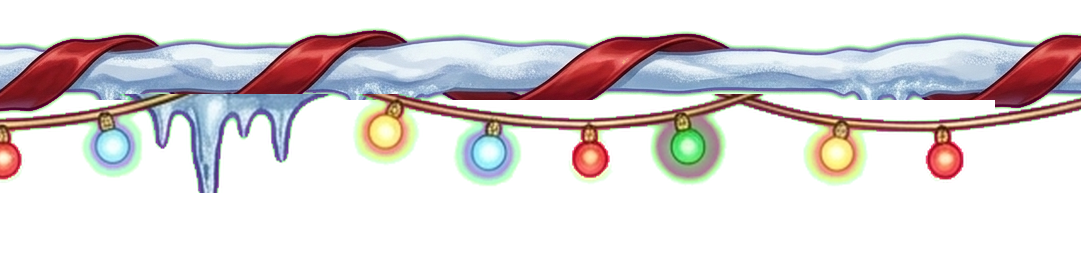
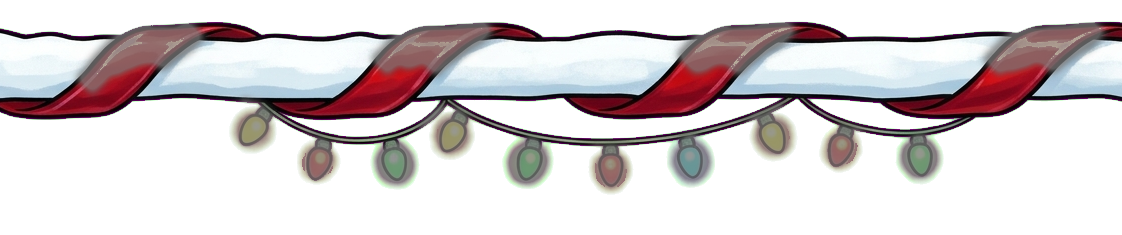
feat: Noël, cadre B (neige épaisse, ruban rayé, boules, guirlandes) avec les petites lumières qui clignotent

diff --git a/Tools/skin-pack/pack_noel_frame.py b/Tools/skin-pack/pack_noel_frame.py
@@ -1,0 +1,71 @@
+"""Builds the Christmas frame from one of the two new Gemini frames into a skin folder: usage: python pack_noel_ab.py <a|b> <skin folder to write into (a copy of noel)>"""
+import json
+import sys
+import numpy as np
+from PIL import Image
+
+DL = 'C:/Users/stacy/Downloads/Gemini_Generated_Image_'
+VARIANTS = {
+    # file, corner width / top height / bottom height, side strip rows, panel edge (centre of the bars): left, right, top, bottom
+    'a': dict(file=DL + 'z78q83z78q83z78q.jpg', tw=320, th=240, bh=225, strip=(236, 368), edge=(75, 1680, 72, 532), ppp=0.13),
+    'b': dict(file=DL + '2k56kh2k56kh2k56.jpg', tw=335, th=235, bh=232, strip=(215, 372), edge=(85, 1712, 62, 528), ppp=0.13),
+}
+which, OUT = sys.argv[1], sys.argv[2]
+v = VARIANTS[which]
+arr = np.asarray(Image.open(v['file']).convert('RGB')).astype(float)
+r, g, b = arr[..., 0], arr[..., 1], arr[..., 2]
+mag = np.clip(((r + b) / 2 - g - 40) / 110, 0, 1) * ((r > 120) & (b > 120))
+alpha = 1 - mag
+alpha = np.where(alpha < 0.05, 0, alpha)
+fg = np.clip((arr - (1 - alpha)[..., None] * np.array([255, 0, 255.])) / np.maximum(alpha, 1e-3)[..., None], 0, 255)
+spill = np.clip((fg[..., 0] + fg[..., 2]) / 2 - fg[..., 1] - 25, 0, 255) * (alpha < 0.98)
+fg[..., 2] -= spill * 0.8 * (fg[..., 2] > fg[..., 1])
+fg[..., 0] -= spill * 0.4 * (fg[..., 0] > fg[..., 1] + 60)
+fg = np.clip(fg, 0, 255)
+from scipy import ndimage
+CH, CW = alpha.shape
+tw, th, bh = v['tw'], v['th'], v['bh']
+# the bulbs: bright, coloured, outside the corners (their gifts and ribbons are bright too); three groups of them blink at their own pace
+mx, mn = fg.max(-1), fg.min(-1)
+core = (mx > 232) & ((mx - mn) / np.maximum(mx, 1) > 0.22) & (alpha > 0.5)
+for x0, y0_, x1, y1_ in ((0, 0, tw, th), (CW - tw, 0, CW, th), (0, CH - bh, tw, CH), (CW - tw, CH - bh, CW, CH)):
+    core[y0_:y1_, x0:x1] = False
+core = ndimage.binary_opening(core, iterations=1)
+near = ndimage.binary_dilation(core, iterations=14)
+lab, count = ndimage.label(near)
+objs = sorted(ndimage.center_of_mass(near, lab, range(1, count + 1)), key=lambda c: c[1])
+order = {i + 1: k for k, i in enumerate(sorted(range(count), key=lambda i: objs[i][1]))}
+group = np.zeros_like(alpha, dtype=int) - 1
+for i in range(1, count + 1):
+    group[lab == i] = order[i] % 3
+soft_all = np.clip(ndimage.gaussian_filter(near.astype(float), 4) * 1.5, 0, 1)
+dim_fg = fg * (1 - 0.62 * soft_all)[..., None]
+dim_alpha = alpha * (1 - 0.35 * soft_all)
+print(count, 'bulbs')
+full = Image.fromarray(np.dstack([dim_fg, dim_alpha * 255]).astype('uint8'), 'RGBA')
+layers = []
+for gidx in range(3):
+    m = np.clip(ndimage.gaussian_filter((group == gidx).astype(float), 4) * 1.5, 0, 1)
+    layers.append(Image.fromarray(np.dstack([fg, alpha * m * 255]).astype('uint8'), 'RGBA'))
+
+cuts = {'tl': (0, 0, tw, th), 't': (tw, 0, CW - tw, th), 'tr': (CW - tw, 0, CW, th),
+        'bl': (0, CH - bh, tw, CH), 'b': (tw, CH - bh, CW - tw, CH), 'br': (CW - tw, CH - bh, CW, CH)}
+pieces = {}
+y0, y1 = v['strip']
+sides = {'l': (0, y0, tw, y1), 'r': (CW - tw, y0, CW, y1)}
+light_pieces = [{} for _ in layers]
+for k, c in {**cuts, **sides}.items():
+    full.crop(c).save(f'{OUT}/frame_{k}.png')
+    pieces[k] = f'frame_{k}.png'
+    for gi, layer in enumerate(layers):
+        layer.crop(c).save(f'{OUT}/lit{gi}_{k}.png')
+        light_pieces[gi][k] = f'lit{gi}_{k}.png'
+cx0, cx1, cy0, cy1 = v['edge']
+ppp = v['ppp']
+ov = {'left': cx0, 'top': cy0, 'right': CW - cx1, 'bottom': CH - cy1}
+sk = json.load(open(f'{OUT}/skin.json', encoding='utf-8'))
+sk['frame'] = {'ppp': ppp, 'overhang': {k: round(x * ppp, 2) for k, x in ov.items()}, 'corner': {'w': round(tw * ppp, 2), 'h': round(th * ppp, 2)}, 'pieces': pieces, 'band': 1.0, 'tileSides': True}
+sk['frame']['lights'] = [{'pieces': lp, 'period': per} for lp, per in zip(light_pieces, (0.9, 1.3, 1.1))]
+sk.pop('decos', None)
+json.dump(sk, open(f'{OUT}/skin.json', 'w', encoding='utf-8'), indent=2)
+print(which, sk['frame']['overhang'], sk['frame']['corner'])

diff --git a/Client/Ui/Skin/SkinFrame.cs b/Client/Ui/Skin/SkinFrame.cs
@@ -21,7 +21,39 @@ public static class SkinFrame
             return null;
         }
 
-        BitmapSource? Piece(string key) => frame.Pieces.TryGetValue(key, out string? file) ? skin.Bitmap(file) : null;
+        Grid? grid = Assemble(skin, frame, frame.Pieces, true);
+        if (grid is null)
+        {
+            return null;
+        }
+
+        AddGlows(skin, frame, grid);
+        // the little lights: each layer is the frame again with a group of bulbs lit, fading in and out at its own pace
+        var random = new Random(11);
+        foreach (SkinLightLayer layer in frame.Lights)
+        {
+            if (Assemble(skin, frame, layer.Pieces, false) is not Grid lit)
+            {
+                continue;
+            }
+
+            Grid.SetRowSpan(lit, 3);
+            Grid.SetColumnSpan(lit, 3);
+            grid.Children.Add(lit);
+            lit.BeginAnimation(UIElement.OpacityProperty, new DoubleAnimation(0.05, 1, TimeSpan.FromSeconds(layer.Period))
+            {
+                AutoReverse = true, RepeatBehavior = RepeatBehavior.Forever, BeginTime = TimeSpan.FromSeconds(random.NextDouble() * layer.Period),
+                EasingFunction = new SineEase { EasingMode = EasingMode.EaseInOut },
+            });
+        }
+
+        return grid;
+    }
+
+    /// <summary>The 3 x 3 grid of a set of pieces (the frame's own, or one of the lit layers'); null when a piece cannot be read.</summary>
+    private static Grid? Assemble(SkinPack skin, SkinFrameInfo frame, IReadOnlyDictionary<string, string> files, bool withMargin)
+    {
+        BitmapSource? Piece(string key) => files.TryGetValue(key, out string? file) ? skin.Bitmap(file) : null;
         BitmapSource?[] pieces = { Piece("tl"), Piece("t"), Piece("tr"), Piece("l"), Piece("r"), Piece("bl"), Piece("b"), Piece("br") };
         if (pieces.Any(p => p is null))
         {
@@ -32,7 +64,7 @@ public static class SkinFrame
         double ppp = frame.Ppp;
         var grid = new Grid
         {
-            IsHitTestVisible = false, Margin = new Thickness(-frame.Overhang.Left, -frame.Overhang.Top, -frame.Overhang.Right, -frame.Overhang.Bottom),
+            IsHitTestVisible = false, Margin = withMargin ? new Thickness(-frame.Overhang.Left, -frame.Overhang.Top, -frame.Overhang.Right, -frame.Overhang.Bottom) : new Thickness(0),
             SnapsToDevicePixels = false, UseLayoutRounding = false,
         };
         grid.ColumnDefinitions.Add(new ColumnDefinition { Width = new GridLength(tl.PixelWidth * ppp) });
@@ -57,7 +89,6 @@ public static class SkinFrame
         Add(grid, bl, 2, 0);
         Add(grid, b, 2, 1);
         Add(grid, br, 2, 2);
-        AddGlows(skin, frame, grid);
         return grid;
     }
 

diff --git a/Client/Ui/Skin/SkinPack.cs b/Client/Ui/Skin/SkinPack.cs
@@ -16,7 +16,13 @@ public sealed record SkinFrameInfo(double Ppp, Thickness Overhang, Size Corner, 
 
     /// <summary>The left and right pieces are repeated down the sides instead of stretched (skin.json frame "tileSides").</summary>
     public bool TileSides { get; init; }
+
+    /// <summary>Layers of the frame's little lights that blink (Stacy, 2026-11-02): the frame's own pieces carry the bulbs dimmed, each layer has the same pieces with a group of bulbs lit.</summary>
+    public IReadOnlyList<SkinLightLayer> Lights { get; init; } = Array.Empty<SkinLightLayer>();
 }
+
+/// <summary>A group of bulbs of the frame: the pieces' files (the same names as the frame's) with only these bulbs lit, and the seconds a blink takes.</summary>
+public sealed record SkinLightLayer(IReadOnlyDictionary<string, string> Pieces, double Period);
 
 /// <summary>
 /// A decoration outside the frame (Stacy, 2026-10-30: "quelques elements a l'exterieur, hors cadre mais leger"): its file and size in points, the corner of the panel it belongs to
@@ -124,6 +130,12 @@ public sealed class SkinPack
                                 g.GetProperty("size").GetDouble())).ToList()
                             : Array.Empty<SkinGlow>(),
                         TileSides = f.TryGetProperty("tileSides", out JsonElement tile) && tile.ValueKind == JsonValueKind.True,
+                        Lights = f.TryGetProperty("lights", out JsonElement lights) && lights.ValueKind == JsonValueKind.Array
+                            ? lights.EnumerateArray().Select(l => new SkinLightLayer(
+                                l.GetProperty("pieces").EnumerateObject().ToDictionary(pr => pr.Name, pr => pr.Value.GetString() ?? "", StringComparer.OrdinalIgnoreCase),
+                                l.TryGetProperty("period", out JsonElement period) ? period.GetDouble() : 1.5))
+                                .Where(l => needed.All(n => l.Pieces.TryGetValue(n, out string? lf) && File.Exists(Path.Combine(folder, lf)))).ToList()
+                            : Array.Empty<SkinLightLayer>(),
                     };
                 }
             }
